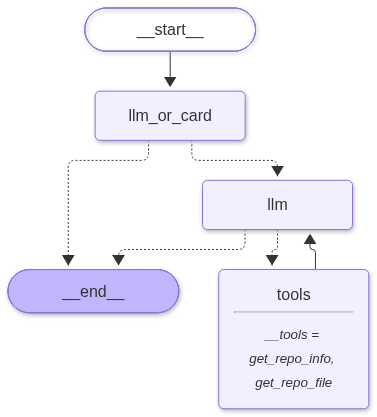
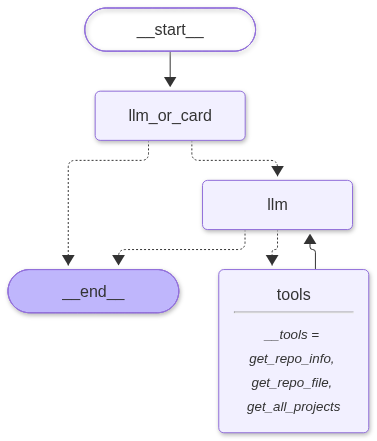
add tool to get all projects

diff --git a/src/github_ai_agent/core/tools/repo.py b/src/github_ai_agent/core/tools/repo.py
@@ -17,6 +17,23 @@ def get_crsr():
         conn.close()
 
 @tool
+def get_all_projects()->str:
+    """ get all the projects name adn id
+        Args:
+             - None
+        Returns: 
+             str: all projects with corresponding id
+    """
+    with get_crsr() as crsr:
+        crsr.execute(
+            """
+            SELECT id, name FROM REPO;
+            """
+        )
+        data = crsr.fetchall()
+        return "\n".join([f"{name}: id {id}" for id,name in data])
+
+@tool
 def get_repo_info(repo_id:int)->str:
     """get all the content about a github repo by the repo id
         Args:
@@ -54,3 +71,6 @@ def get_repo_file(repo_id:int, file_name:str):
             )
             data = crsr.fetchone()
             return data[0]
+
+if __name__ == '__main__':
+    get_all_projects()

diff --git a/src/github_ai_agent/core/nodes.py b/src/github_ai_agent/core/nodes.py
@@ -3,7 +3,7 @@ from langgraph.graph import END
 from langchain_core.messages import SystemMessage, AIMessage
 from typing import Literal
 from langgraph.types import Command
-from github_ai_agent.core.tools.repo import get_repo_info, get_repo_file
+from github_ai_agent.core.tools.repo import get_repo_info, get_repo_file, get_all_projects
 from github_ai_agent.core.llm_model import model
 from github_ai_agent.core.state import State
 import github_ai_agent.core.prompts as prompts
@@ -11,7 +11,7 @@ from github_ai_agent.core.schemas import CardDecision
 from github_ai_agent.core.Enums import UserInfo
 
 
-tools = [get_repo_info, get_repo_file]
+tools = [get_repo_info, get_repo_file, get_all_projects]
 
 tool_node = ToolNode(tools)
 

diff --git a/src/github_ai_agent/core/prompts.py b/src/github_ai_agent/core/prompts.py
@@ -30,9 +30,6 @@ You are a helpful assistant in my portfolio. My name is {UserInfo.name.value} \a
 </resume>
 Your task is to only answer question about {UserInfo.name.value} not to be a general assisstant
 You are provided with tools to get details about my projects in github with the project id
-GenLearn: id 1
-PopChoice: id 2
-research_agent: id 3
-study_tracker: id 4
+You also has a tool to inspect the available projects with it's ids
 if the information about {UserInfo.name.value} is not in the resume content say that you don't know and ask the user to contact {UserInfo.name.value} directily {UserInfo.CardContent.value['Contact']}
 """
